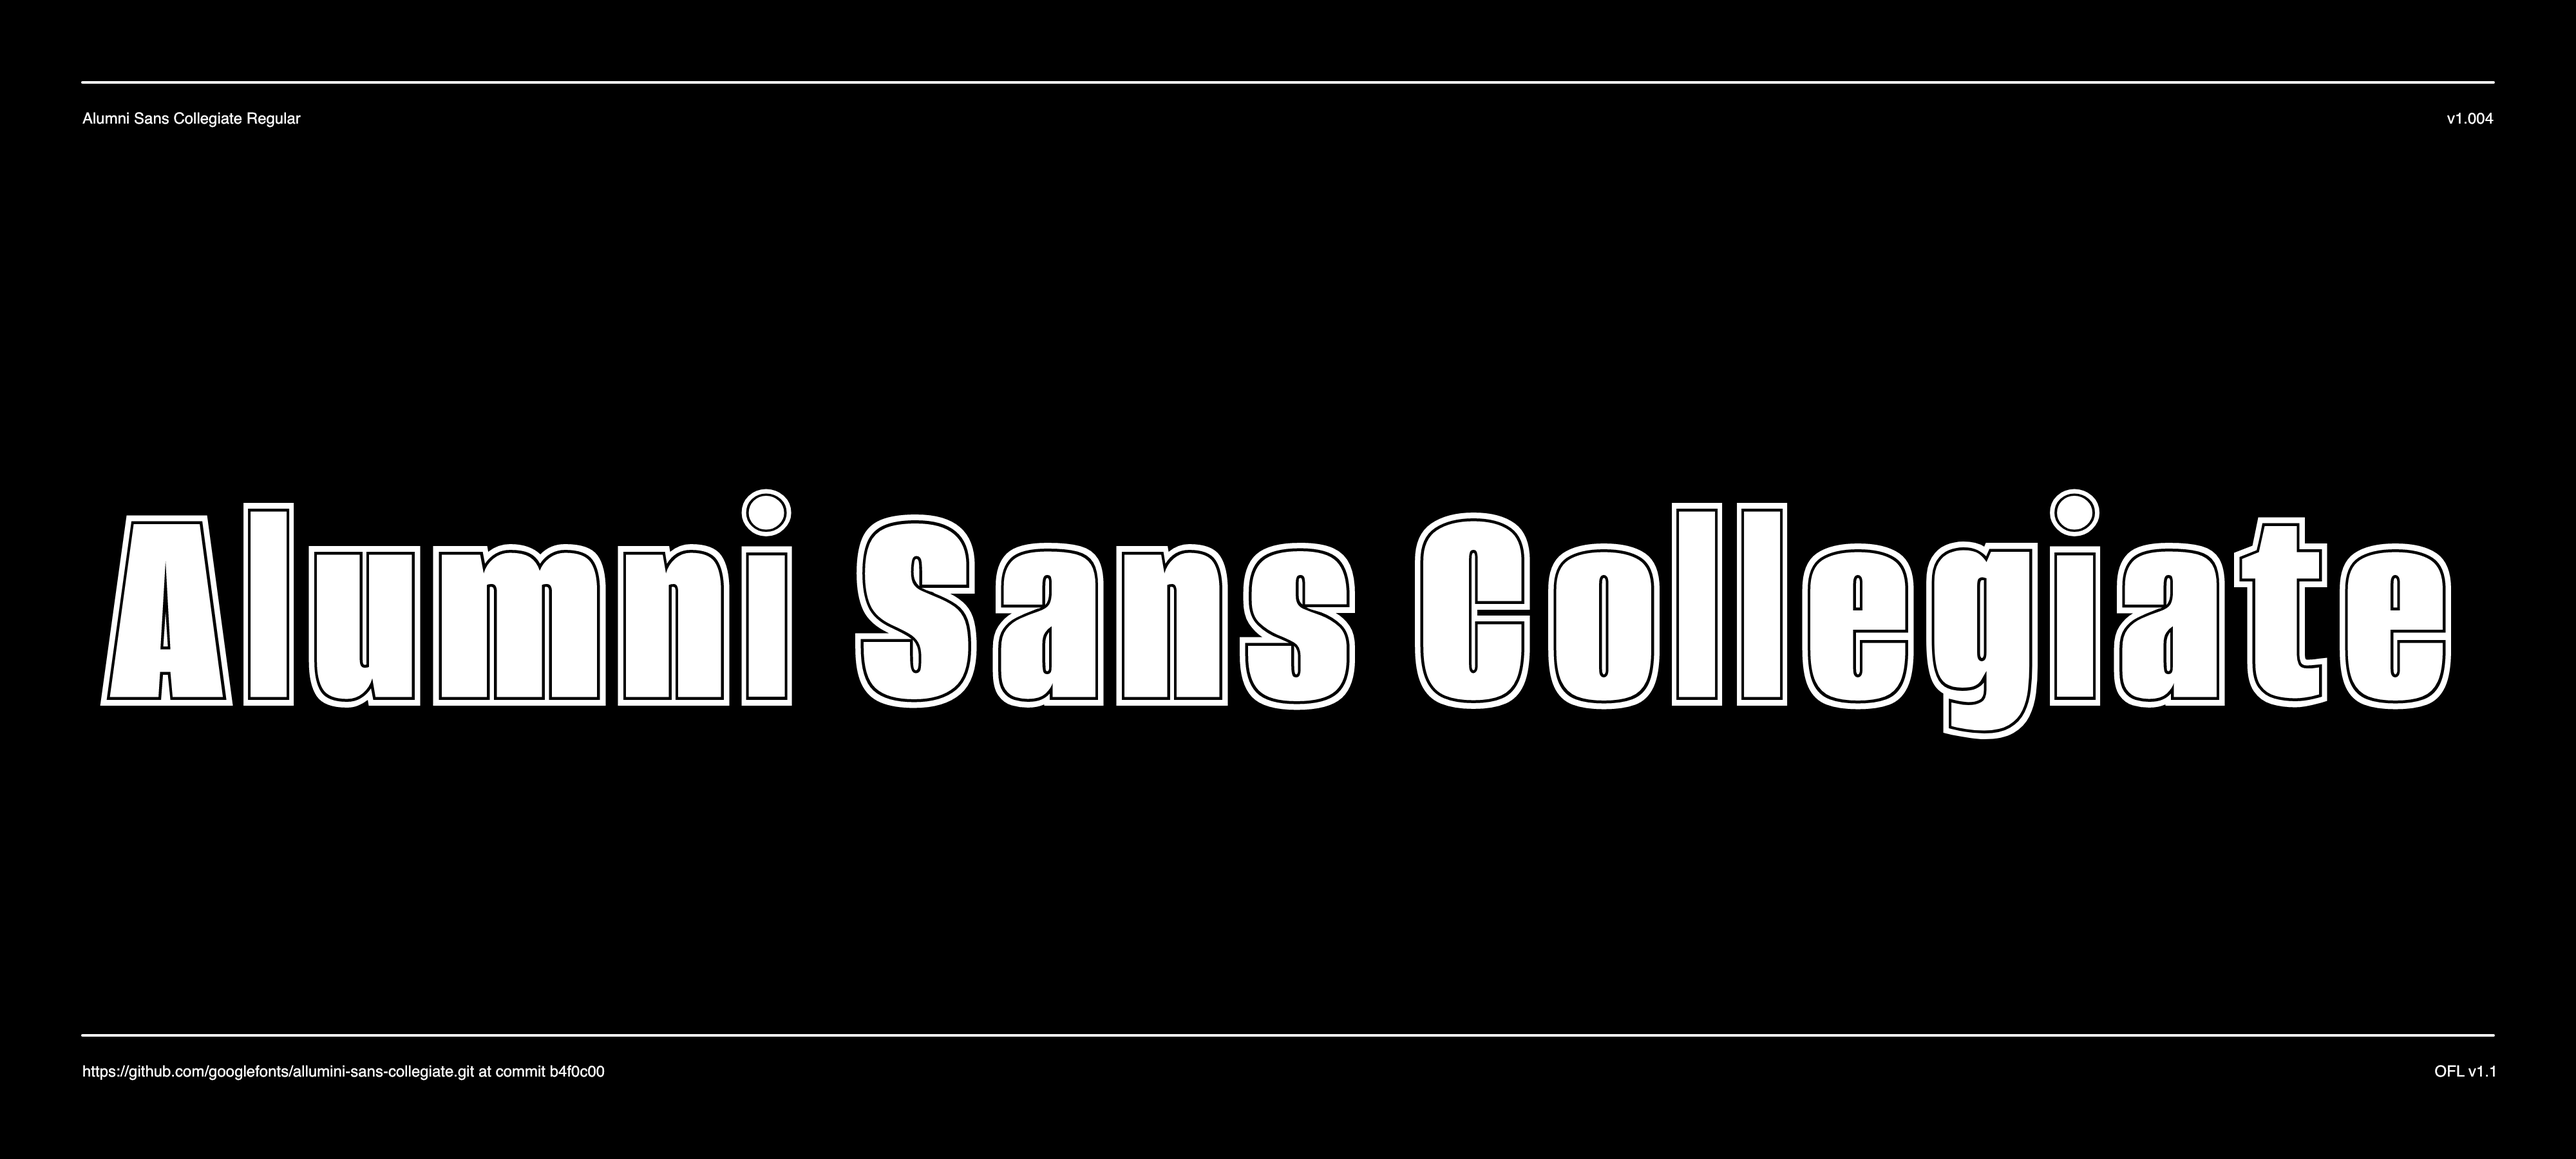
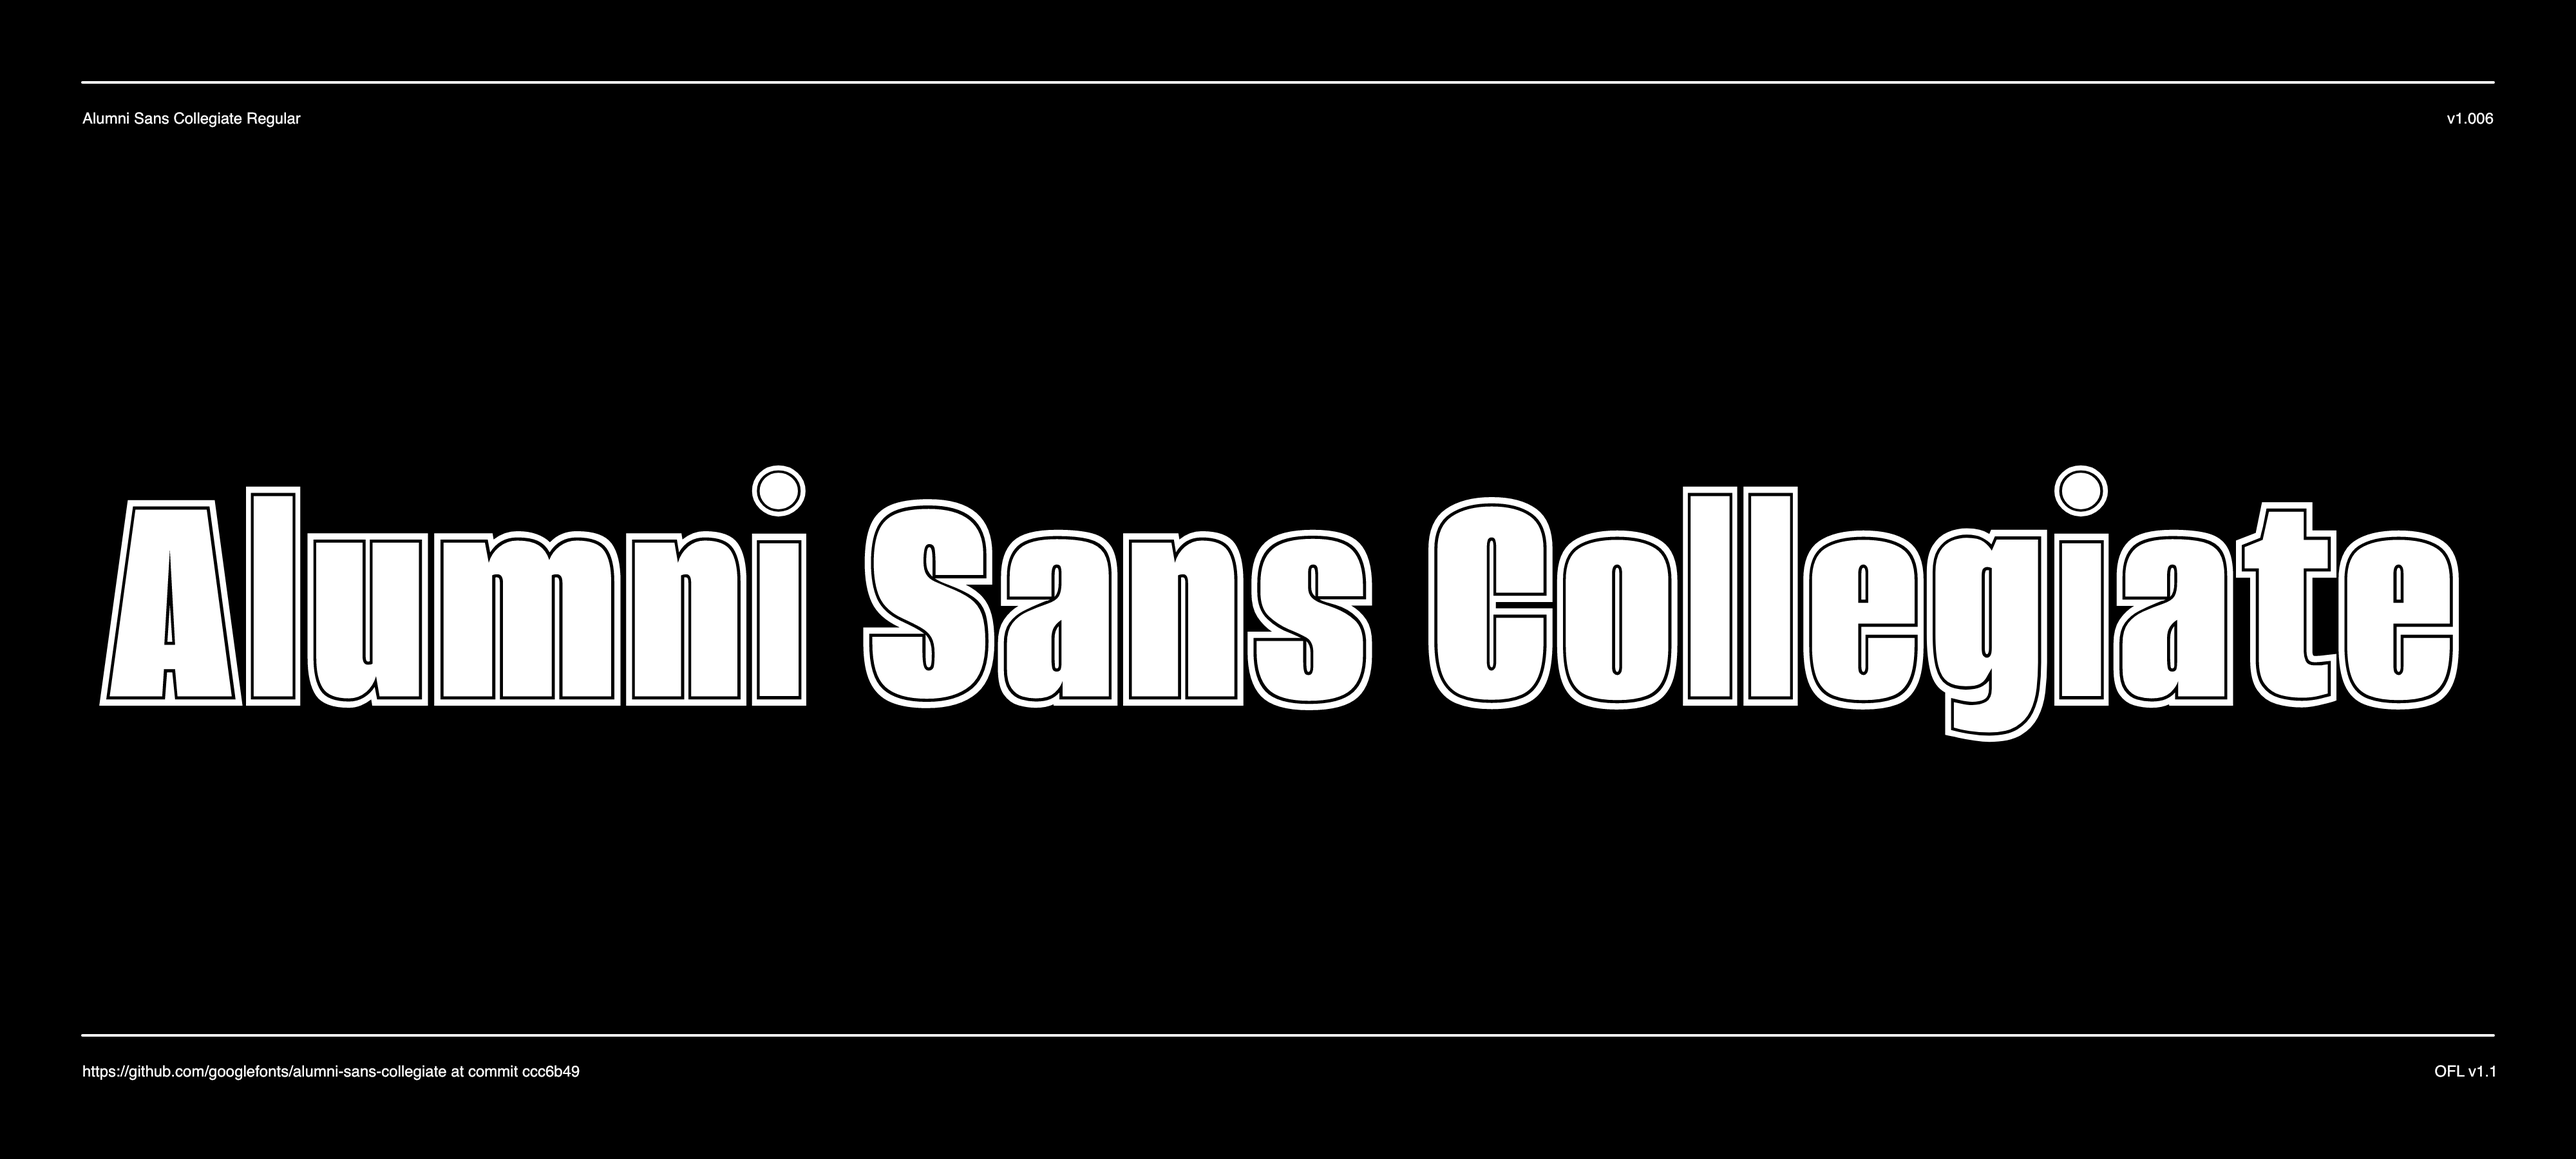
sample image updated

Changed region(s): [[0.0312, 0.4044, 0.9688, 0.6533], [0.125, 0.9022, 0.2188, 0.9333]]

diff --git a/documentation/image1.py b/documentation/image1.py
@@ -21,7 +21,7 @@ FONT_LICENSE = "OFL v1.1"
 AUXILIARY_FONT = "Helvetica"
 AUXILIARY_FONT_SIZE = 24
 BIG_TEXT = "Alumni Sans Collegiate"
-BIG_TEXT_FONT_SIZE = 500
+BIG_TEXT_FONT_SIZE = 540
 BIG_TEXT_SIDE_MARGIN = MARGIN * 1.2
 BIG_TEXT_BOTTOM_MARGIN = MARGIN * 5.5
 GRID_VIEW = False # Change this to "True" for a grid overlay
